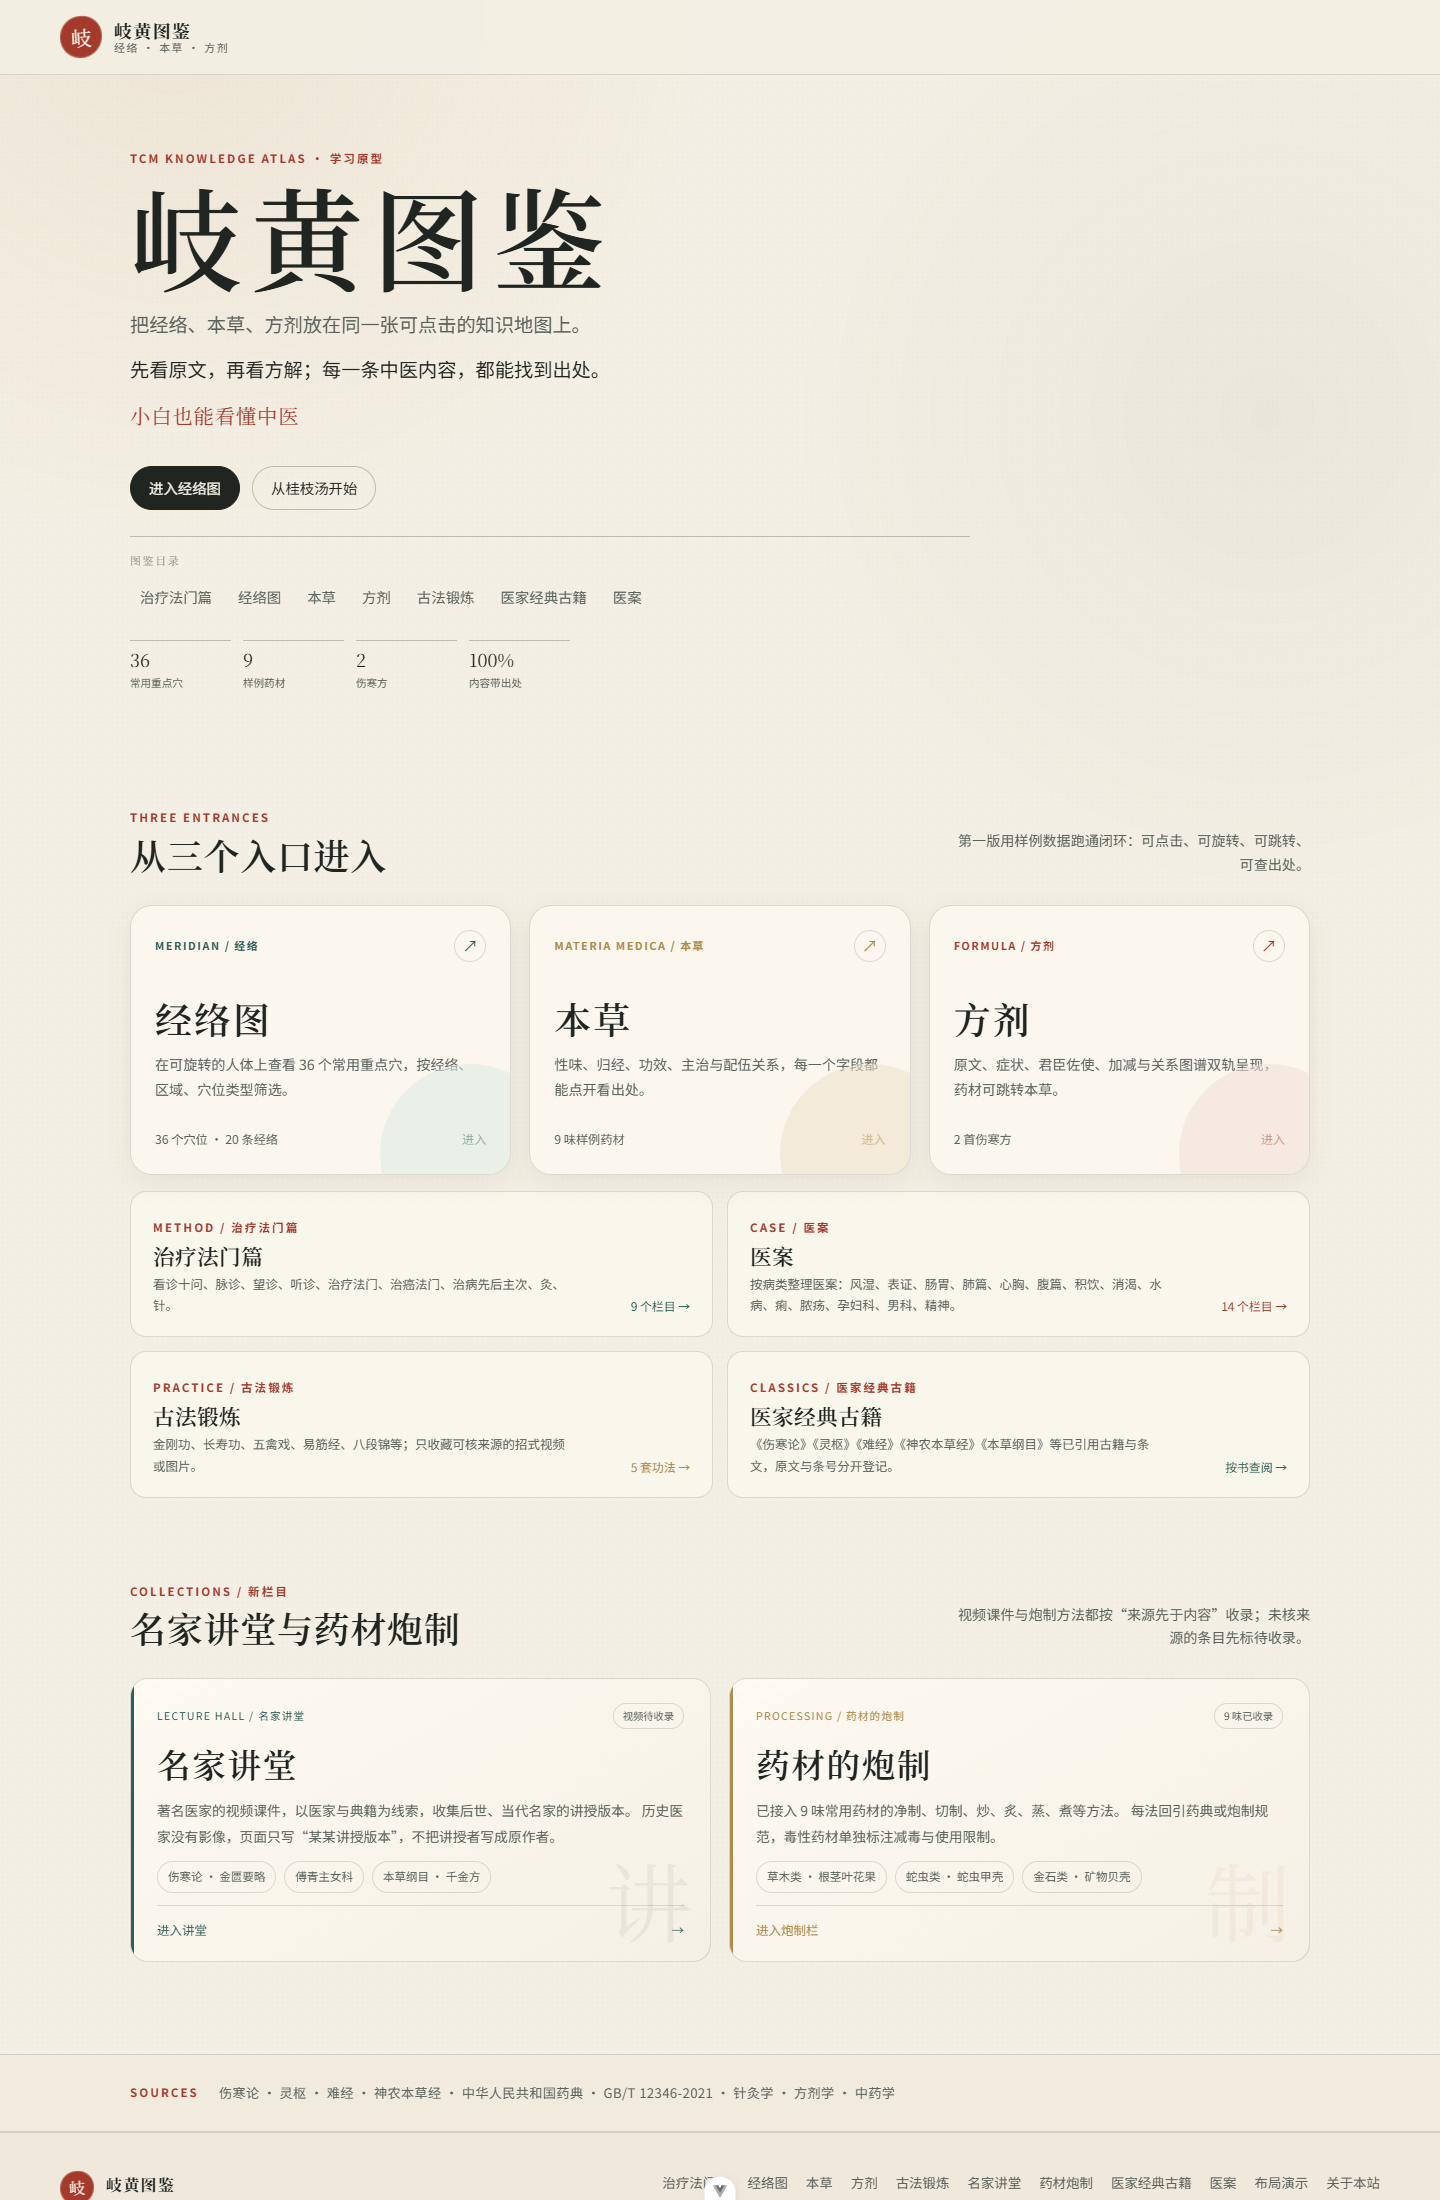
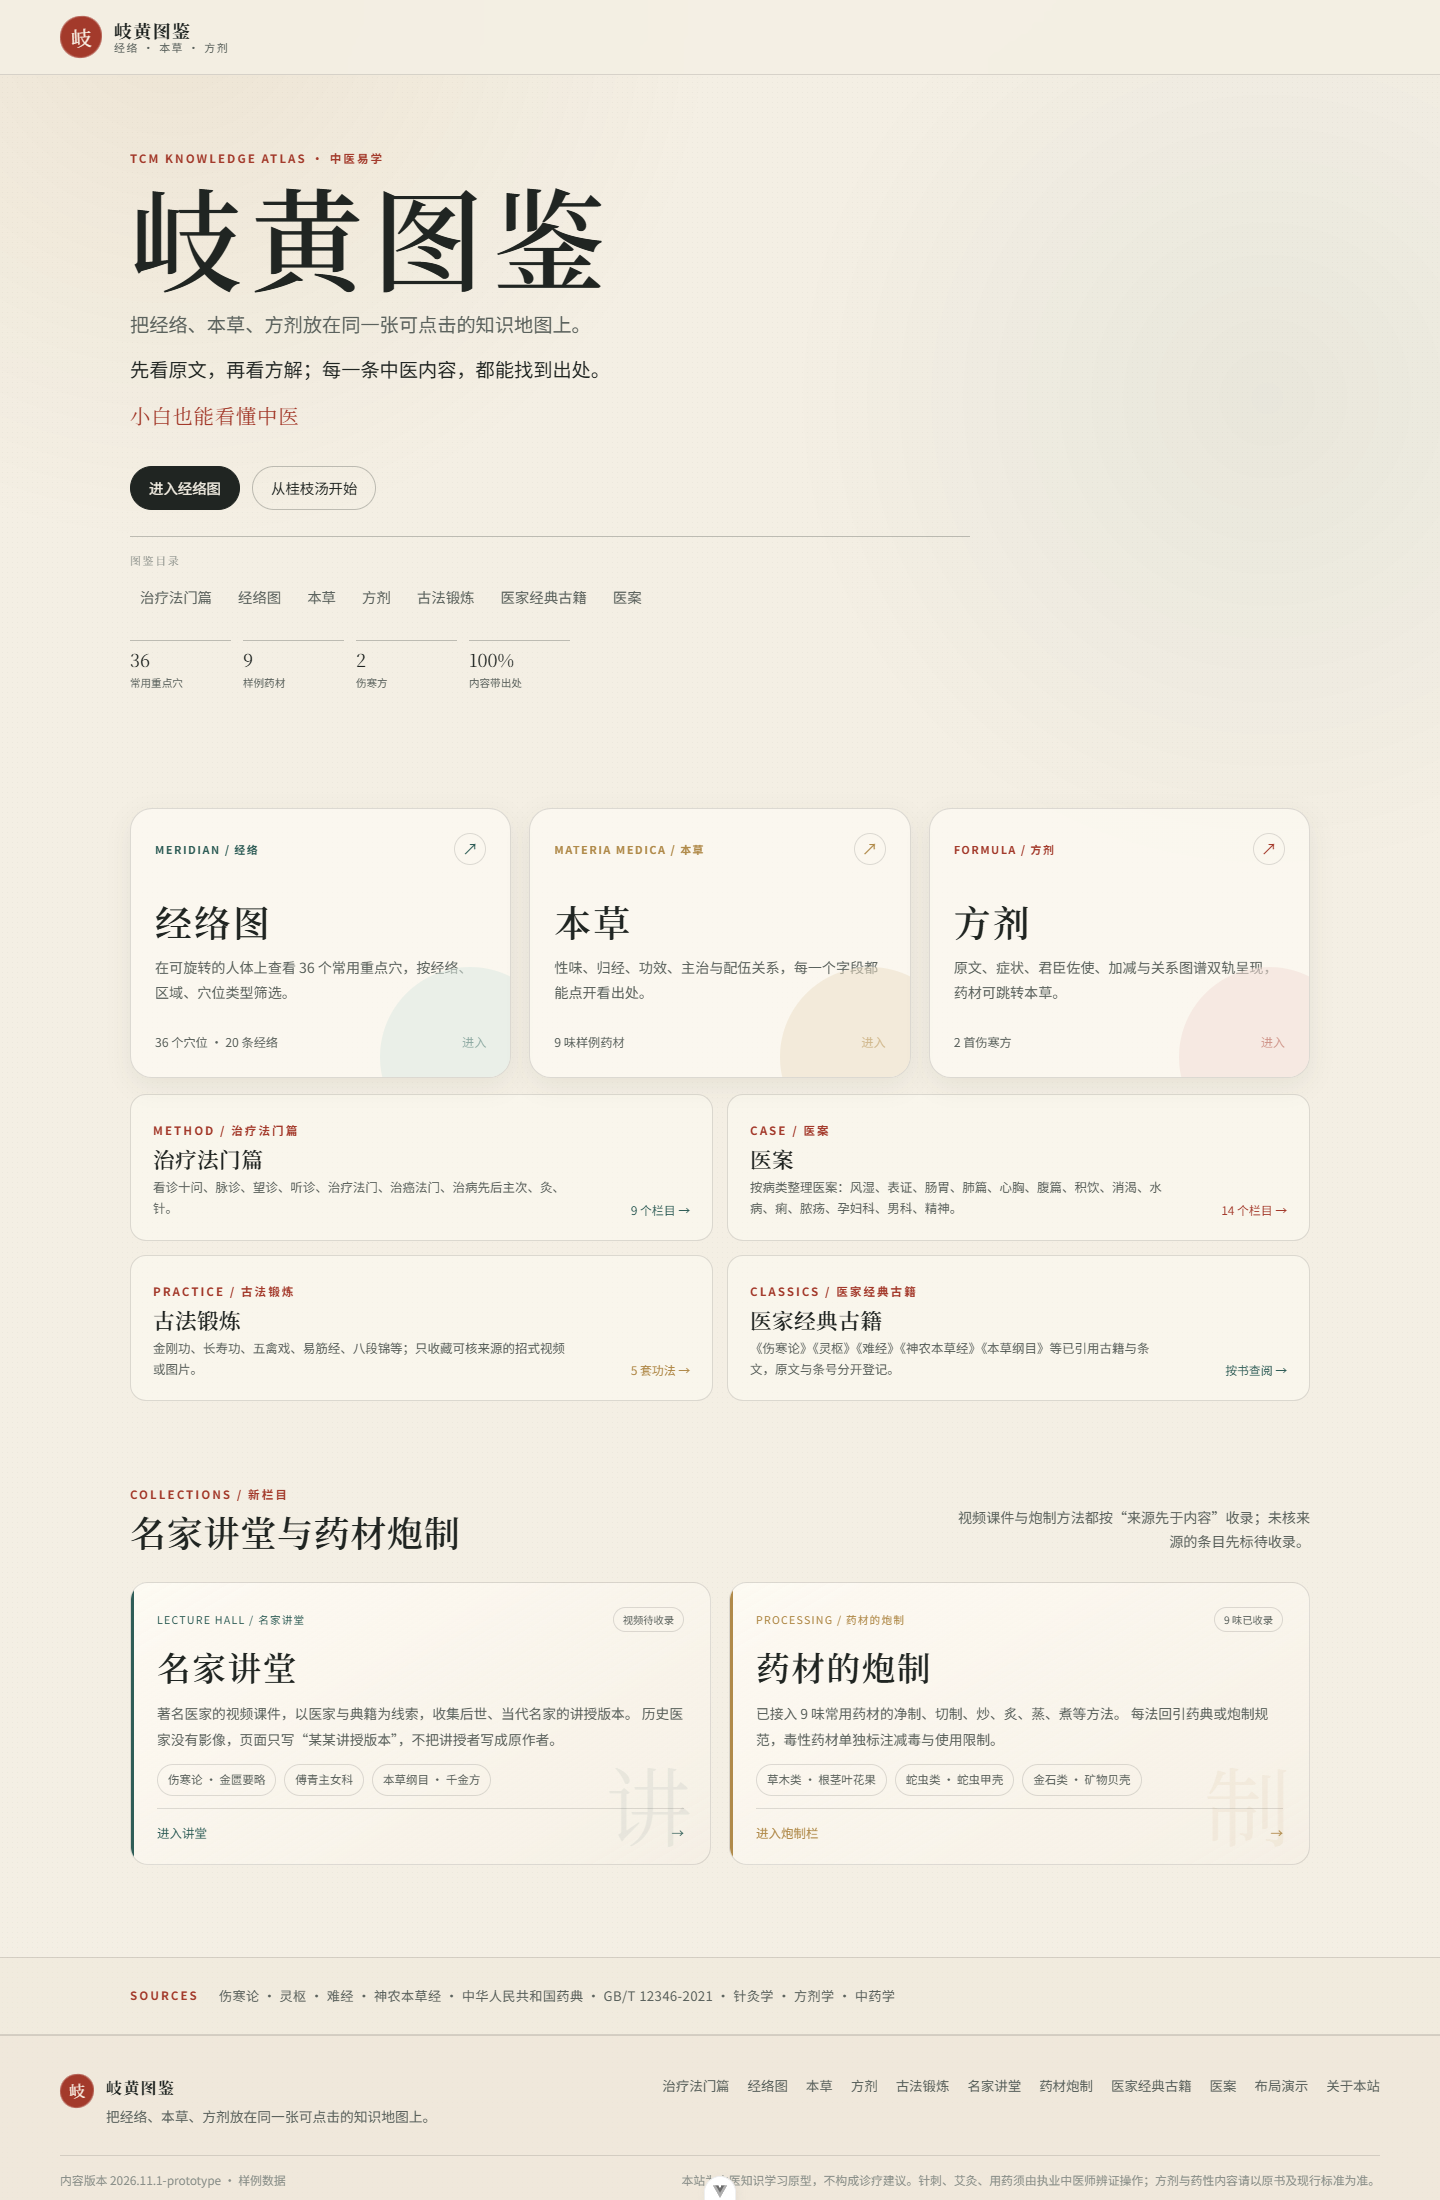
Simplify homepage intro and herb header chips

diff --git a/src/views/HomeView.vue b/src/views/HomeView.vue
@@ -47,7 +47,7 @@ const modules = computed(() => [
   <div class="home">
     <section class="hero container">
       <div class="hero__copy">
-        <p class="eyebrow">TCM KNOWLEDGE ATLAS · 学习原型</p>
+        <p class="eyebrow">TCM KNOWLEDGE ATLAS · 中医易学</p>
         <h1>岐黄图鉴</h1>
         <p class="hero__lead">
           把经络、本草、方剂放在同一张可点击的知识地图上。
@@ -80,14 +80,6 @@ const modules = computed(() => [
     </section>
 
     <section class="module-section container">
-      <div class="section-head">
-        <div>
-          <p class="eyebrow">THREE ENTRANCES</p>
-          <h2>从三个入口进入</h2>
-        </div>
-        <p>第一版用样例数据跑通闭环：可点击、可旋转、可跳转、可查出处。</p>
-      </div>
-
       <div class="module-grid">
         <RouterLink
           v-for="(m, index) in modules"

diff --git a/src/views/HerbDetailView.vue b/src/views/HerbDetailView.vue
@@ -89,7 +89,6 @@ const currentSlotLabel = computed(() => {
           </div>
           <div class="detail-tags">
             <span v-for="t in herb.flavorTags" :key="t" class="chip chip--cinnabar">{{ t }}</span>
-            <span v-for="m in meridianLinks" :key="m.id" class="chip chip--jade">{{ m.name }}</span>
             <span class="chip chip--gold">{{ herb.verification === 'reference' ? '药典依据' : '待核验' }}</span>
           </div>
           <div class="taxonomy-links">
